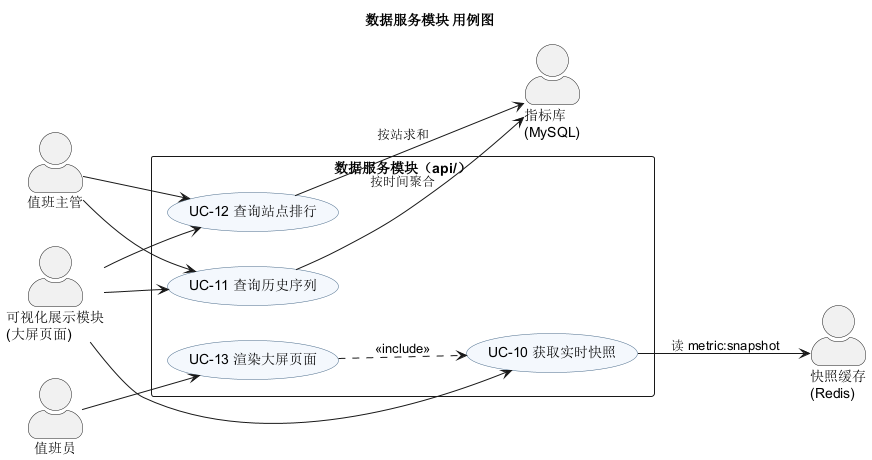
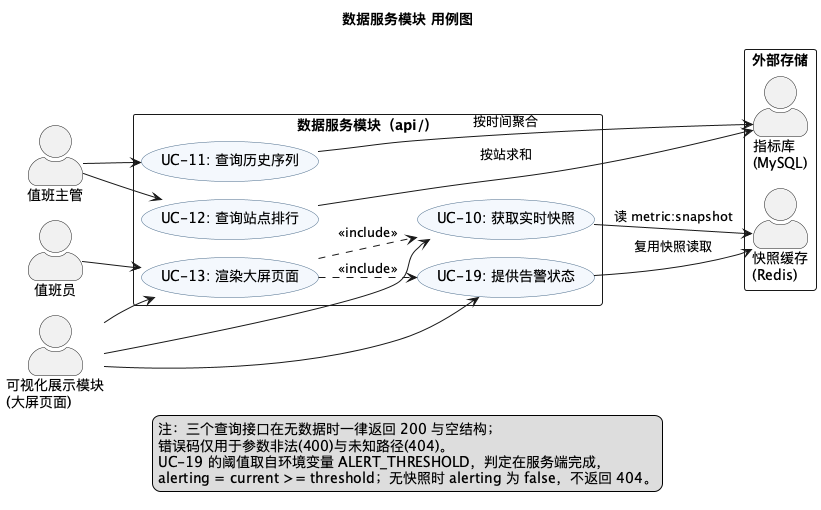
docs(需求): 按实验一规范补角色表和用例列表
对照实验指导书「二、需求规格说明书」2.1/2.2 的格式重做需求文档。

用例表：
- 新增表1-1 角色列表，6 个角色含人与系统内部参与者
- 新增表1-2 用例列表，19 条，保留原有的用户故事追溯列
- 删掉原来的「0. 汇总」表，它和表1-2 重复
- 优先级由「高/中/低」改为 E/H/F 三档，全文统一
- 服务模块 UC-10/11/12/13/19 由 7 字段扩到 11 字段，
  补「描述」「风险」「触发条件」
- 角色名「主管」改为「值班主管」，与表1-1 对齐
- 修正编号规则说明，原文写的规则与实际用的连续编号不符

用例图（四张）：
- 用例标题改为「UC-编码: 动宾短语」，按 PPT 规范加冒号
- UC-08 名称由「写快照与落库」改为「写快照与写入数据库」，与用例表一致
- 重新导出 PNG

核对：19 个用例在表与图中编号、名称、分布完全一致。

diff --git a/docs/01-需求/用例表.md b/docs/01-需求/用例表.md
@@ -3,32 +3,56 @@
 按四个功能模块分别描述，每个模块一张用例图（见 `docs/03-建模/02`～`05`），
 事件流较复杂的用例另配活动图（见 `docs/03-建模/06`～`08`）。
 
-用例编号规则：`UC-模块序号-序号`，本文用连续编号，与用例图里的别名一一对应。
+用例编号规则：全文采用连续编号 `UC-01`～`UC-19`，与四张用例图里的别名一一对应。
+其中 `UC-19` 是第三迭代新增的告警用例，为不打乱既有编号与图纸引用，追加在末尾。
 
 ---
 
-## 0. 汇总
+## 0. 角色列表与用例列表
 
-| 模块 | 用例 | 参与者 | 优先级 | 故事 |
-|------|------|--------|--------|------|
-| 数据采集 | UC-01 生成闸机事件 | 系统维护者 | 高 | US-01 |
-| 数据采集 | UC-02 设置发送速率与数量 | 系统维护者 | 中 | US-01 |
-| 数据采集 | UC-03 注入异常数据 | 系统维护者 | 高 | US-02 |
-| 数据采集 | UC-04 回放历史样例 | 系统维护者 | 中 | US-09 |
-| 实时计算 | UC-05 消费事件 | 计算进程 | 高 | US-03、US-13 |
-| 实时计算 | UC-06 窗口聚合出指标 | 计算进程 | 高 | US-03 |
-| 实时计算 | UC-07 判定迟到与非法事件 | 计算进程 | 高 | US-02 |
-| 实时计算 | UC-08 写快照与写入数据库 | 计算进程 | 高 | US-03、US-10 |
-| 实时计算 | UC-09 重启后续消费 | 计算进程、维护者 | 中 | US-13 |
-| 数据服务 | UC-10 获取实时快照 | 大屏页面、值班员 | 高 | US-03 |
-| 数据服务 | UC-11 查询历史序列 | 主管、大屏页面 | 中 | US-06、US-10 |
-| 数据服务 | UC-12 查询站点排行 | 主管、大屏页面 | 中 | US-07 |
-| 数据服务 | UC-13 渲染大屏页面 | 值班员 | 高 | US-03 |
-| 可视化 | UC-14 查看实时客流 | 值班员 | 高 | US-03 |
-| 可视化 | UC-15 按线路筛选 | 值班员 | 中 | US-05 |
-| 可视化 | UC-16 查看趋势与排行 | 主管 | 中 | US-06、US-07 |
-| 可视化 | UC-17 接收客流告警 | 值班员 | 高 | US-04 |
-| 可视化 | UC-18 感知断线与恢复 | 值班员 | 高 | US-08 |
+> 对应实验指导书「二、需求规格说明书」2.1 角色分析与 2.2 用例分析。
+
+### 表1-1 角色列表
+
+| 编号 | 角色名 | 所属部门 | 简要描述 |
+|------|--------|----------|----------|
+| 1 | 值班员 | 车站值班室 | 盯大屏，看当前哪个站人多、是否需要限流；关心数据有没有断。 |
+| 2 | 值班主管 | 线路运营部 | 看一段时间内的走势与站点排名，用于排班与限流决策。 |
+| 3 | 系统维护者 | 信息技术部 | 造数据、调速率、注入脏数据、回放样例，确认重启不丢数。 |
+| 4 | 大屏页面 | 系统内部 | 前端页面，以 HTTP 轮询方式消费服务模块的接口，不是人。 |
+| 5 | 计算进程 | 系统内部 | 消费者进程，读 Redis Stream、切窗聚合、写快照与数据库。 |
+| 6 | 模拟数据源 | 外部系统 | 模拟闸机上报刷卡事件，事件格式受接口契约约束。 |
+
+### 表1-2 用例列表
+
+> 只列基本用例，不含精化后的扩展用例，与 2.3 各模块用例表一一对应。
+
+| 编号 | 用例名称 | 角色 | 优先级 | 描述 | 对应故事 |
+|------|----------|------|--------|------|----------|
+| UC-01 | 生成闸机事件 | 模拟数据源、系统维护者 | E | 按设定速率与数量造刷卡事件写入事件队列。 | US-01 |
+| UC-02 | 设置发送速率与数量 | 系统维护者 | H | 通过命令行参数控制造数节奏，便于压测与演示。 | US-01 |
+| UC-03 | 注入异常数据 | 系统维护者 | H | 按比例混入迟到、字段缺失等脏数据，验证链路容错。 | US-02 |
+| UC-04 | 回放历史样例 | 系统维护者 | H | 用固定样例重放，保证结果可复现。 | US-09 |
+| UC-05 | 消费事件 | 计算进程 | E | 以消费组方式从事件队列取事件，支持断点续读。 | US-03、US-13 |
+| UC-06 | 窗口聚合出指标 | 计算进程 | E | 按 1 秒翻滚窗口聚合各站客流，向下对齐。 | US-03 |
+| UC-07 | 判定迟到与非法事件 | 计算进程 | E | 迟到事件按容忍窗口处理，非法事件计入计数。 | US-02 |
+| UC-08 | 写快照与写入数据库 | 计算进程 | E | 快照带 TTL 供接口读，明细落库供回溯与对账。 | US-03、US-10 |
+| UC-09 | 重启后续消费 | 计算进程、系统维护者 | H | 重启后从上次位置继续，不丢已入队事件。 | US-13 |
+| UC-10 | 获取实时快照 | 大屏页面、值班员 | E | 返回最新窗口的客流指标，是大屏唯一数据源。 | US-03 |
+| UC-11 | 查询历史序列 | 值班主管、大屏页面 | H | 按时间范围返回逐秒点序，支撑趋势与回溯。 | US-06、US-10 |
+| UC-12 | 查询站点排行 | 值班主管、大屏页面 | H | 按最近 5 分钟累计客流降序取前 N。 | US-07 |
+| UC-13 | 渲染大屏页面 | 值班员 | E | 返回看板页面，页面与接口同源。 | US-03 |
+| UC-19 | 提供告警状态 | 大屏页面、值班员 | H | 服务端比较客流与阈值，下发告警状态。 | US-04 |
+| UC-14 | 查看实时客流 | 值班员 | E | 顶部总客流与站点柱状图每秒刷新。 | US-03 |
+| UC-15 | 按线路筛选 | 值班员 | H | 只看某条线路的站点客流。 | US-05 |
+| UC-16 | 查看趋势与排行 | 值班主管 | H | 折线趋势与排行列表合并展示。 | US-06、US-07 |
+| UC-17 | 接收客流告警 | 值班员 | H | 超阈值时页面出现告警横幅。 | US-04 |
+| UC-18 | 感知断线与恢复 | 值班员 | H | 接口连续失败时提示断线，恢复后自动接上。 | US-08 |
+
+### 优先级说明
+
+采用需求工程中的优先级分类：**E**（Essential，必须实现）、**H**（High-value，应当实现）、
+**F**（Follow-on，后续迭代）。本项目当前无 F 级用例，列此项以备后续排期调整。
 
 ---
 
@@ -41,7 +65,7 @@
 | 项 | 内容 |
 |----|------|
 | 参与者 | 系统维护者 |
-| 优先级 | 高 |
+| 优先级 | E |
 | 前置条件 | Redis 可用；Stream `gate_events` 已存在或允许自动创建 |
 | 基本流 | 1. 维护者启动模拟器<br>2. 系统取当前时刻，判断所处时段<br>3. 按站点权重选一个站，按时段决定进/出站倾向<br>4. 生成 1—5 人的乘客数，组装成契约 2.1 的事件<br>5. 写入 Stream，打印一条日志<br>6. 按速率等待后回到步骤 2 |
 | 备选流 | A1 指定 `--count` 时，达到条数即退出 |
@@ -53,7 +77,7 @@
 | 项 | 内容 |
 |----|------|
 | 参与者 | 系统维护者 |
-| 优先级 | 中 |
+| 优先级 | H |
 | 前置条件 | 无 |
 | 基本流 | 1. 维护者传 `--speed`（倍速）与 `--count`（条数）<br>2. 系统按 `1/speed` 换算发送间隔<br>3. `--count` 为 0 时表示不限条数 |
 | 异常流 | E1 `--speed` 非正数：按 0.01 兜底，避免除零或死循环 |
@@ -64,7 +88,7 @@
 | 项 | 内容 |
 |----|------|
 | 参与者 | 系统维护者 |
-| 优先级 | 高 |
+| 优先级 | H |
 | 前置条件 | 已设置 `--inject` 比例（0—1） |
 | 基本流 | 1. 每条事件生成后按比例抽样<br>2. 命中时随机选一种异常：缺字段（去掉 `passengers` 或 `event_time`）或乱序（事件时间回拨 3—30 秒）<br>3. 照常写入 Stream |
 | 异常流 | E1 `--inject` 超出 0—1：参数校验直接报错退出 |
@@ -75,7 +99,7 @@
 | 项 | 内容 |
 |----|------|
 | 参与者 | 系统维护者 |
-| 优先级 | 中 |
+| 优先级 | H |
 | 前置条件 | 样例文件存在且为 JSONL，每行一条事件 |
 | 基本流 | 1. 维护者传 `--replay <路径>`<br>2. 系统读取全部事件<br>3. 按事件时间差与倍速计算等待时长<br>4. 逐条写入 Stream |
 | 异常流 | E1 文件为空：提示后结束<br>E2 某行不是合法 JSON：读文件阶段即失败退出 |
@@ -92,7 +116,7 @@
 | 项 | 内容 |
 |----|------|
 | 参与者 | 计算进程（主）、系统维护者（启停） |
-| 优先级 | 高 |
+| 优先级 | E |
 | 前置条件 | Redis 可用；消费组 `metric_builder` 已建立（不存在则创建） |
 | 基本流 | 1. 进程启动，`ping` 通过后建立消费组<br>2. 以消费组身份读取新消息（`>`）<br>3. 逐条取出 `data` 字段解析为事件<br>4. 交给窗口处理<br>5. 处理完成后确认（ACK）消息 |
 | 备选流 | A1 无新消息：阻塞等待，超时后进入下一个窗口 |
@@ -104,7 +128,7 @@
 | 项 | 内容 |
 |----|------|
 | 参与者 | 计算进程 |
-| 优先级 | 高 |
+| 优先级 | E |
 | 前置条件 | 已读入若干事件 |
 | 基本流 | 1. 取当前时刻并向下对齐到整秒，得到窗口起点<br>2. 计算窗口结束时间<br>3. 把事件分成"本窗口"和"属于后续窗口"两部分<br>4. 后续窗口的事件暂存，留到下一轮<br>5. 对剩余事件按站点累加客流，同时统计迟到、非法<br>6. 站点结果按客流降序排列 |
 | 备选流 | A1 本窗口没有有效事件：仍产出全 0 的指标，用于维持快照存活 |
@@ -116,7 +140,7 @@
 | 项 | 内容 |
 |----|------|
 | 参与者 | 计算进程 |
-| 优先级 | 高 |
+| 优先级 | E |
 | 前置条件 | 事件已进入聚合流程 |
 | 基本流 | 1. 尝试解析 `event_time`、`passengers`、`station_id`<br>2. 任一字段缺失或类型不对，计一条非法并跳过<br>3. 事件时间早于"窗口起点减 2 个窗口"，计一条迟到并跳过<br>4. 其余事件计入客流 |
 | 备选流 | A1 迟到事件按站点记录，写入数据库时带在对应站点行上 |
@@ -128,7 +152,7 @@
 | 项 | 内容 |
 |----|------|
 | 参与者 | 计算进程 |
-| 优先级 | 高 |
+| 优先级 | E |
 | 前置条件 | 指标已算出 |
 | 基本流 | 1. 组装快照 JSON（含时间戳、总量、站点明细、两个计数）<br>2. 写入 `metric:snapshot`，设置 5 秒过期<br>3. 按站点组装明细行<br>4. 批量写入 `metric_window`，冲突时忽略 |
 | 备选流 | A1 本窗口没有任何站点数据：跳过写入数据库 |
@@ -140,7 +164,7 @@
 | 项 | 内容 |
 |----|------|
 | 参与者 | 计算进程、系统维护者 |
-| 优先级 | 中 |
+| 优先级 | H |
 | 前置条件 | 进程曾异常退出或被人为停止 |
 | 基本流 | 1. 重新启动，加入同一消费组<br>2. 组内记录上次确认位置<br>3. 只读取未确认的消息<br>4. 重新聚合写入，唯一键保证不产生重复行 |
 | 备选流 | A1 重启期间到达的新消息按正常路径消费 |
@@ -157,47 +181,81 @@
 
 | 项 | 内容 |
 |----|------|
-| 参与者 | 大屏页面、值班员 |
-| 优先级 | 高 |
-| 前置条件 | Web 服务运行 |
-| 基本流 | 1. 调用方请求 `/api/snapshot`<br>2. 服务读取 `metric:snapshot`<br>3. 有值则原样返回，响应头带 `no-store` |
-| 备选流 | A1 快照不存在（消费者未启动或已停）：返回空结构，状态码仍为 200 |
-| 异常流 | E1 Redis 不可用：同样返回空结构，不让页面报错<br>E2 快照内容不是合法 JSON：按空结构处理 |
-| 后置条件 | 调用方拿到与契约一致的结构 |
+| 用例标识和名称 | UC-10: 获取实时快照 |
+| 描述 | 把最新一个窗口的客流指标一次性交给大屏，是全页面数字的唯一来源。 |
+| 参与者 | 大屏页面（主）、值班员 |
+| 优先级 | E |
+| 风险 | 高 —— 它是大屏唯一数据源，接口异常整块看板没有数字。 |
+| 前置条件和假设 | Web 服务与 Redis 可用；假设消费者在写 `metric:snapshot`。 |
+| 触发条件 | 页面每秒轮询一次。 |
+| 主事件流 | 1. 调用方请求 `GET /api/snapshot`<br>2. 服务读取 `metric:snapshot`<br>3. 有值则原样返回，响应头带 `no-store` |
+| 可选事件流 | A1 快照不存在（消费者未启动或已停）：返回空结构，状态码仍为 200 |
+| 后置条件 | 调用方拿到与契约 4.1 一致的结构。 |
+| 非功能性需求 | 非功能要求「实时性」：事件产生到上屏 ≤ 2 秒；单次响应实测约 2 ms，Redis 不可用时不得返回 5xx 或 404。 |
 
 ### UC-11 查询历史序列
 
 | 项 | 内容 |
 |----|------|
-| 参与者 | 主管、大屏页面 |
-| 优先级 | 中 |
-| 前置条件 | `metric_window` 中已有数据 |
-| 基本流 | 1. 请求 `/api/series`，可带 `station_id` 与 `minutes`<br>2. 校验 `minutes` 为 1—60 的整数<br>3. 按起始时间过滤，指定站则加站点条件<br>4. 按时间戳聚合后升序返回 |
-| 备选流 | A1 不传 `station_id`：按时间戳汇总全部站点 |
-| 异常流 | E1 参数非法：返回 400 与 `INVALID_PARAM`，消息里带上收到的值 |
-| 后置条件 | 返回点序与落库粒度一致（每秒一个点） |
+| 用例标识和名称 | UC-11: 查询历史序列 |
+| 描述 | 按时间范围返回逐秒客流点序，支撑趋势折线与事后回溯。 |
+| 参与者 | 值班主管、大屏页面 |
+| 优先级 | H |
+| 风险 | 中 —— 只影响趋势与回溯，不影响主看板数字。 |
+| 前置条件和假设 | `metric_window` 中已有数据；假设 `ts` 存的是窗口起点。 |
+| 触发条件 | 页面每 5 秒轮询，或主管手工查询。 |
+| 主事件流 | 1. 请求 `GET /api/series`，可带 `station_id` 与 `minutes`<br>2. 校验 `minutes` 为 1—60 的整数<br>3. 按起始时间过滤，指定站则加站点条件<br>4. 按时间戳聚合后升序返回 |
+| 可选事件流 | A1 不传 `station_id`：按时间戳汇总全部站点<br>A2 时间范围内无数据：返回空 `points` 数组，状态码 200<br>E1 参数非法：返回 400 与 `INVALID_PARAM`，消息里带上收到的值 |
+| 后置条件 | 返回点序与落库粒度一致（每秒一个点）。 |
+| 非功能性需求 | 非功能要求「正确性」：同窗口数值与快照口径一致；查 60 分钟范围响应实测约 40 ms（本地单机）。 |
 
 ### UC-12 查询站点排行
 
 | 项 | 内容 |
 |----|------|
-| 参与者 | 主管、大屏页面 |
-| 优先级 | 中 |
-| 前置条件 | `metric_window` 中最近 5 分钟有数据 |
-| 基本流 | 1. 请求 `/api/rank`，可带 `top`<br>2. 校验 `top` 为 1—20 的整数，缺省 5<br>3. 取最近 5 分钟数据，按站点求和<br>4. 降序取前 N 返回 |
-| 异常流 | E1 参数非法：400 + `INVALID_PARAM` |
-| 后置条件 | 排行数值与历史序列同期累计一致 |
+| 用例标识和名称 | UC-12: 查询站点排行 |
+| 描述 | 按最近 5 分钟累计客流对站点降序取前 N，给出「哪个站最挤」的即时结论。 |
+| 参与者 | 值班主管、大屏页面 |
+| 优先级 | H |
+| 风险 | 中 —— 排行是辅助判断，失真不阻断值守，但会误导限流决策。 |
+| 前置条件和假设 | `metric_window` 中最近 5 分钟有数据；假设统计窗口固定 5 分钟，不做参数化。 |
+| 触发条件 | 页面每 5 秒轮询，或主管手工查询。 |
+| 主事件流 | 1. 请求 `GET /api/rank`，可带 `top`<br>2. 校验 `top` 为 1—20 的整数，缺省 5<br>3. 取最近 5 分钟数据，按站点求和<br>4. 降序取前 N 返回 |
+| 可选事件流 | A1 不传 `top`：默认取前 5<br>A2 窗口内无数据：返回空 `top` 数组，状态码 200<br>E1 参数非法：400 + `INVALID_PARAM` |
+| 后置条件 | 排行数值与历史序列同期累计一致。 |
+| 非功能性需求 | 非功能要求「正确性」：与历史序列同口径，同一时间窗内两接口数值应可对账。 |
 
 ### UC-13 渲染大屏页面
 
 | 项 | 内容 |
 |----|------|
+| 用例标识和名称 | UC-13: 渲染大屏页面 |
+| 描述 | 值班员打开根路径即可看到看板，页面与接口同源，省掉跨域配置。 |
 | 参与者 | 值班员 |
-| 优先级 | 高 |
-| 前置条件 | Web 服务运行 |
-| 基本流 | 1. 浏览器请求 `/`<br>2. 服务端渲染页面模板并返回<br>3. 浏览器加载 CDN 上的 Vue 与 ECharts，接管页面 |
-| 异常流 | E1 模板语法错误：返回 500，由服务端日志定位 |
-| 后置条件 | 页面与接口同源，无需跨域配置 |
+| 优先级 | E |
+| 风险 | 低 —— 页面本身是静态模板，出错容易定位。 |
+| 前置条件和假设 | Web 服务运行；假设浏览器可访问 CDN 上的 Vue 与 ECharts。 |
+| 触发条件 | 浏览器访问 `/`。 |
+| 主事件流 | 1. 浏览器请求 `/`<br>2. 服务端渲染页面模板并返回<br>3. 浏览器加载 CDN 上的 Vue 与 ECharts，接管页面 |
+| 可选事件流 | A1 CDN 不可达：图表区域不渲染，顶部数字仍可显示 |
+| 后置条件 | 页面与接口同源，无需跨域配置。 |
+| 非功能性需求 | 非功能要求「实时性」：首屏 2 秒内出数。 |
+
+### UC-19 提供告警状态
+
+| 项 | 内容 |
+|----|------|
+| 用例标识和名称 | UC-19: 提供告警状态 |
+| 描述 | 服务端拿当前客流与阈值比较，下发告警状态，页面只负责按结果渲染横幅。 |
+| 参与者 | 大屏页面（主）、值班员 |
+| 优先级 | H |
+| 风险 | 中 —— 判定放服务端可避免前端各持一份阈值，但阈值配错会影响所有页面。 |
+| 前置条件和假设 | Web 服务运行；阈值由 `ALERT_THRESHOLD` 配置，缺省 100。 |
+| 触发条件 | 页面每秒轮询一次。 |
+| 主事件流 | 1. 页面请求 `GET /api/alert`<br>2. 服务读快照的 `total` 作为当前客流<br>3. 与服务端阈值比较，返回 `threshold`、`current`、`alerting`<br>4. 响应头带 `no-store` |
+| 可选事件流 | A1 快照不存在（消费者未启动或已停）：返回 200，`alerting` 为 false<br>A2 阈值为 0 或负数：回退默认值 100，服务照常启动<br>E1 阈值不是整数：回退默认值并记一条警告日志，不影响服务启动<br>E2 Redis 不可用：按 A1 处理，返回 200 而非报错 |
+| 后置条件 | 判定在服务端完成，页面只按 `alerting` 渲染，不持有阈值常量。 |
+| 非功能性需求 | 非功能要求「实时性」：与快照同周期（实测约 2 ms）；阈值回退时须有日志可查。 |
 
 ---
 
@@ -210,7 +268,7 @@
 | 项 | 内容 |
 |----|------|
 | 参与者 | 值班员 |
-| 优先级 | 高 |
+| 优先级 | E |
 | 前置条件 | 页面已打开，接口可用 |
 | 基本流 | 1. 页面每秒请求一次快照<br>2. 更新顶部总客流与站点明细<br>3. 柱状图重绘，站点按客流降序 |
 | 备选流 | A1 快照为空：图表留空并显示"暂无数据" |
@@ -222,7 +280,7 @@
 | 项 | 内容 |
 |----|------|
 | 参与者 | 值班员 |
-| 优先级 | 中 |
+| 优先级 | H |
 | 前置条件 | 已有站点明细，且每条明细带 `line_id` |
 | 基本流 | 1. 点击"1 号线/2 号线/全部"<br>2. 页面按线路过滤站点集合<br>3. 柱状图只画过滤后的站点 |
 | 备选流 | A1 某线路当前无数据：图表为空但保留坐标轴 |
@@ -233,7 +291,7 @@
 | 项 | 内容 |
 |----|------|
 | 参与者 | 主管 |
-| 优先级 | 中 |
+| 优先级 | H |
 | 前置条件 | 历史数据可用 |
 | 基本流 | 1. 页面每 5 秒请求一次序列与排行<br>2. 序列渲染为折线，排行渲染为列表<br>3. 两者与柱状图共用同一口径 |
 | 备选流 | A1 历史接口失败：保留上一轮图形，不打断主看板 |
@@ -244,7 +302,7 @@
 | 项 | 内容 |
 |----|------|
 | 参与者 | 值班员 |
-| 优先级 | 高 |
+| 优先级 | H |
 | 前置条件 | 页面在刷新中 |
 | 基本流 | 1. 每次拿到快照后比较总客流与阈值<br>2. 超过阈值显示红色横幅，文案带上当前值与阈值<br>3. 回落到阈值以下自动消失 |
 | 备选流 | A1 阈值由服务端配置（`ALERT_THRESHOLD`，默认 100 人次/秒），页面通过 `/api/alert` 取值 |
@@ -255,7 +313,7 @@
 | 项 | 内容 |
 |----|------|
 | 参与者 | 值班员 |
-| 优先级 | 高 |
+| 优先级 | H |
 | 前置条件 | 页面在轮询 |
 | 基本流 | 1. 请求超时或返回非 2xx<br>2. 底部状态变为"连接中断，正在重试"<br>3. 定时器继续按周期重试<br>4. 恢复后状态回到"实时连接"，数据自动续上 |
 | 异常流 | E1 长时间断线：页面保留最后一次数据，但明确标注不是最新 |
